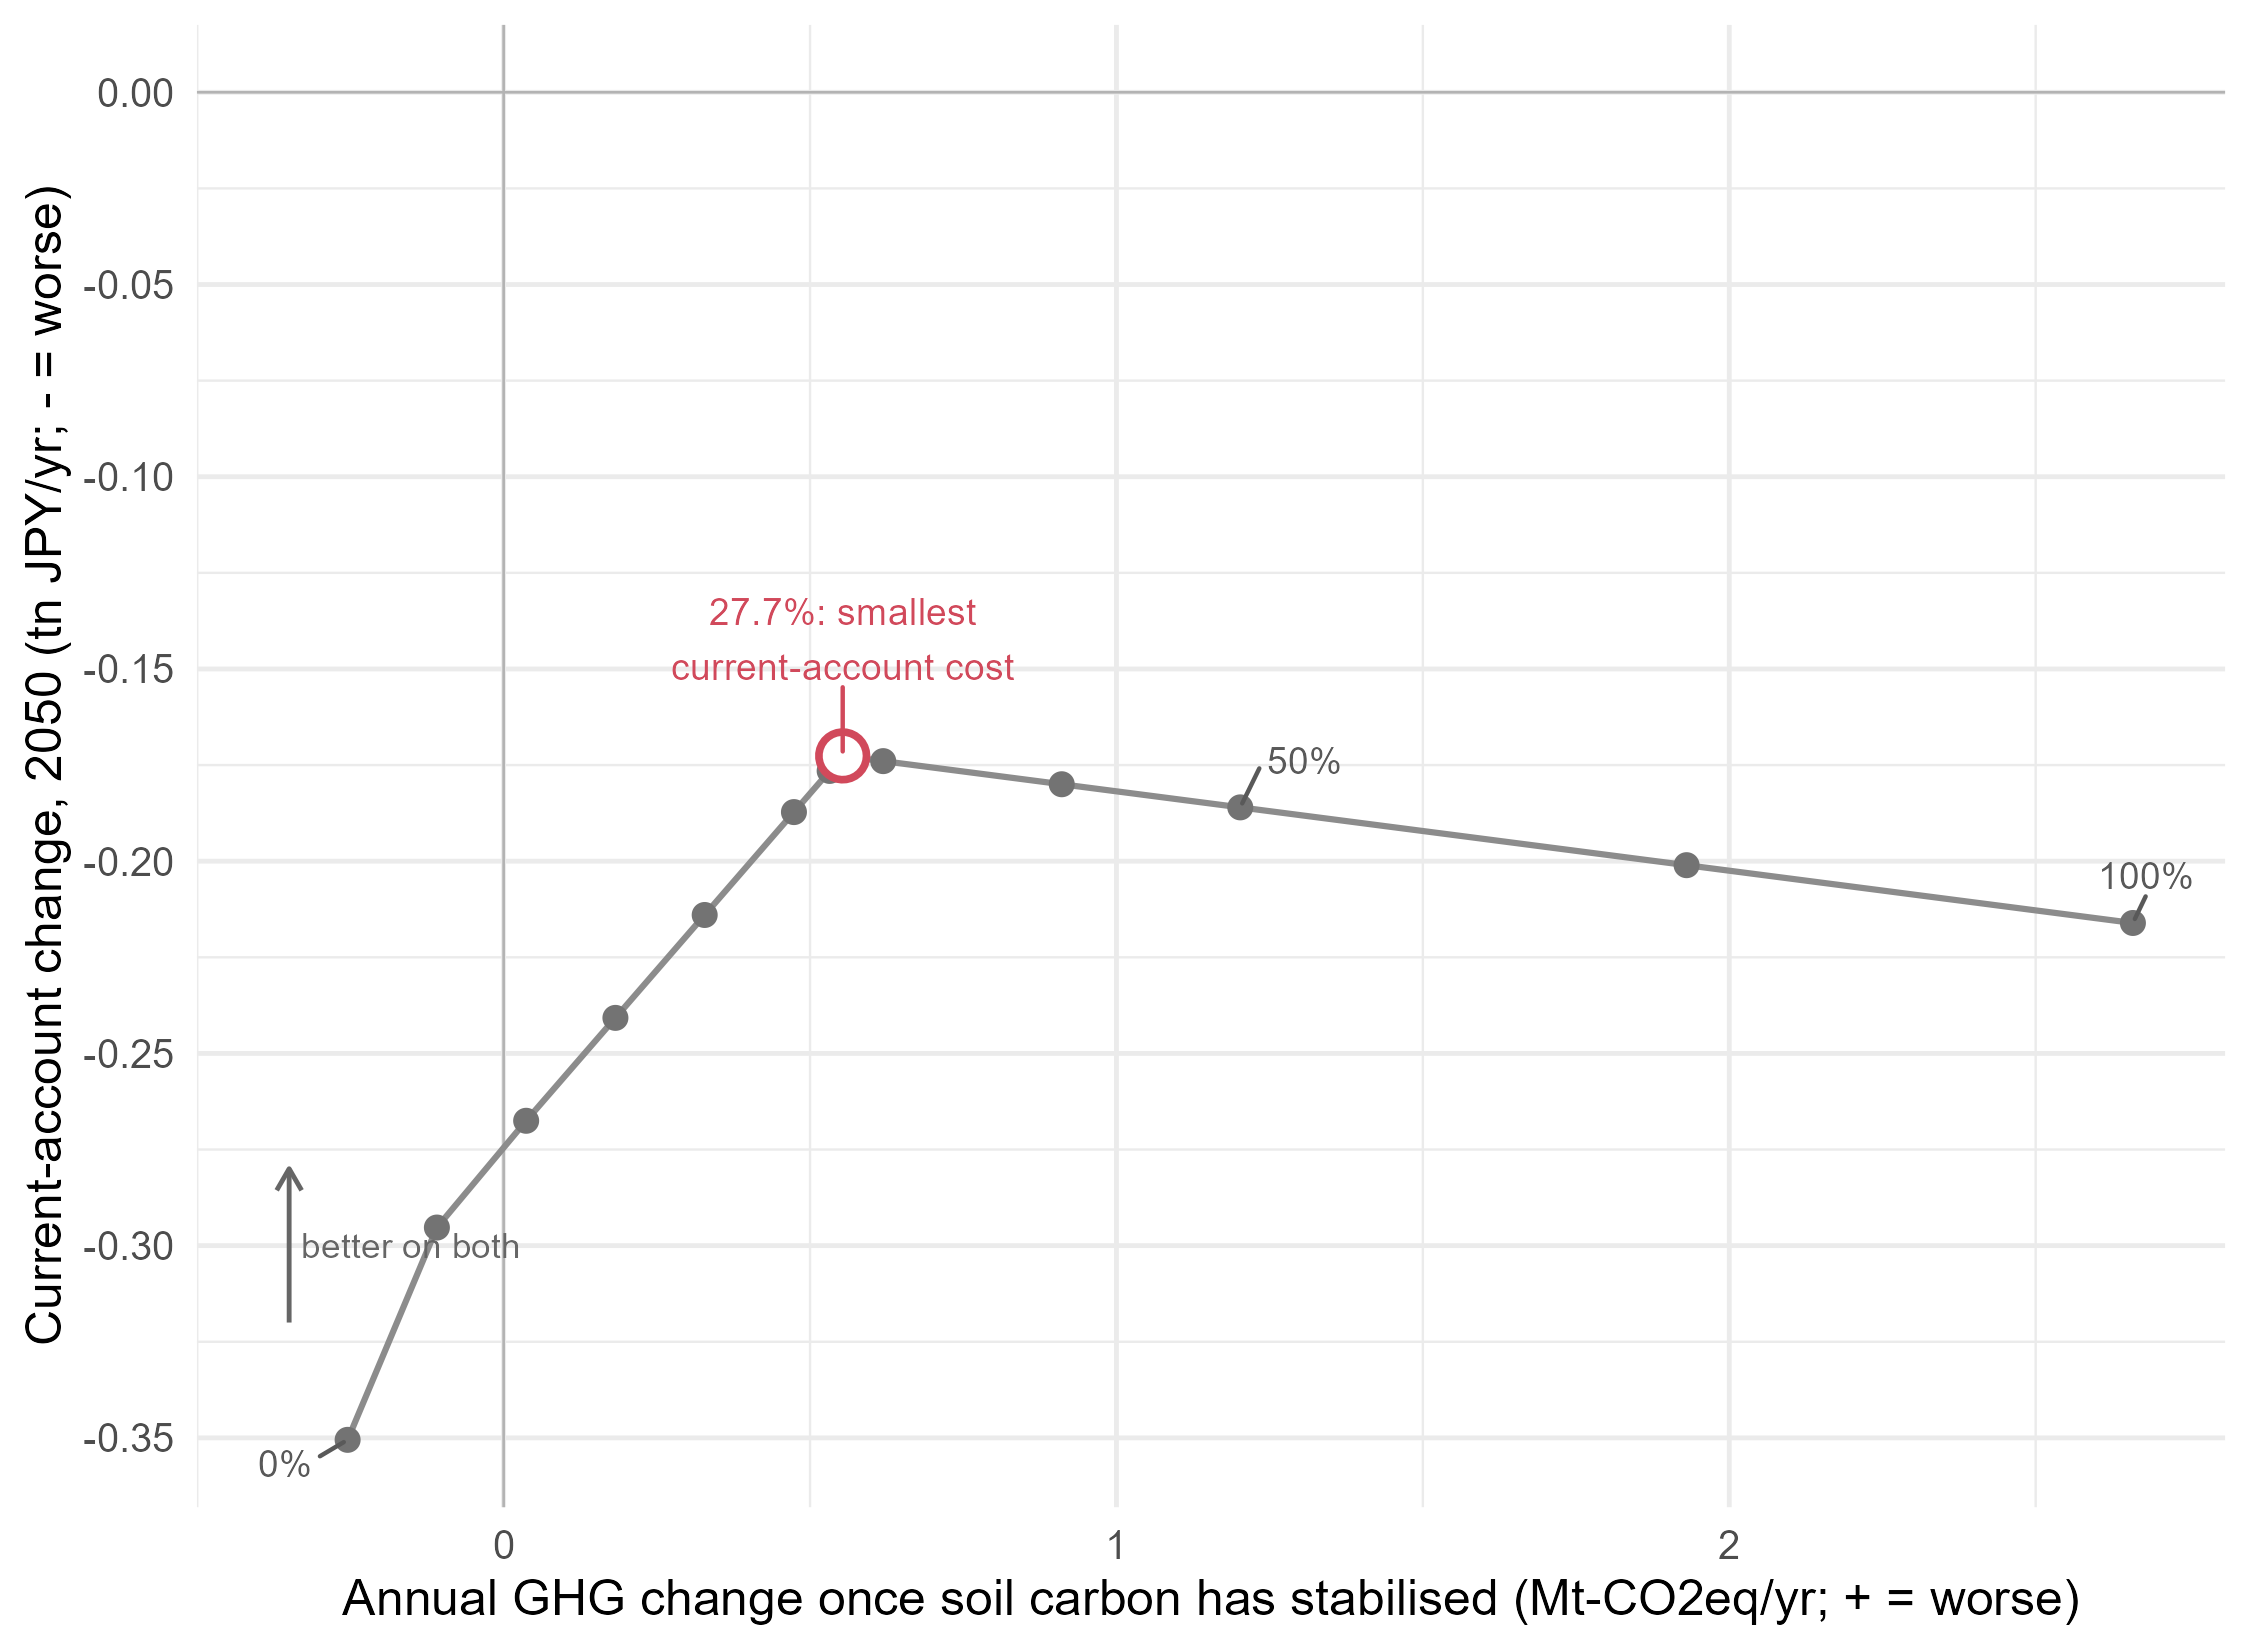
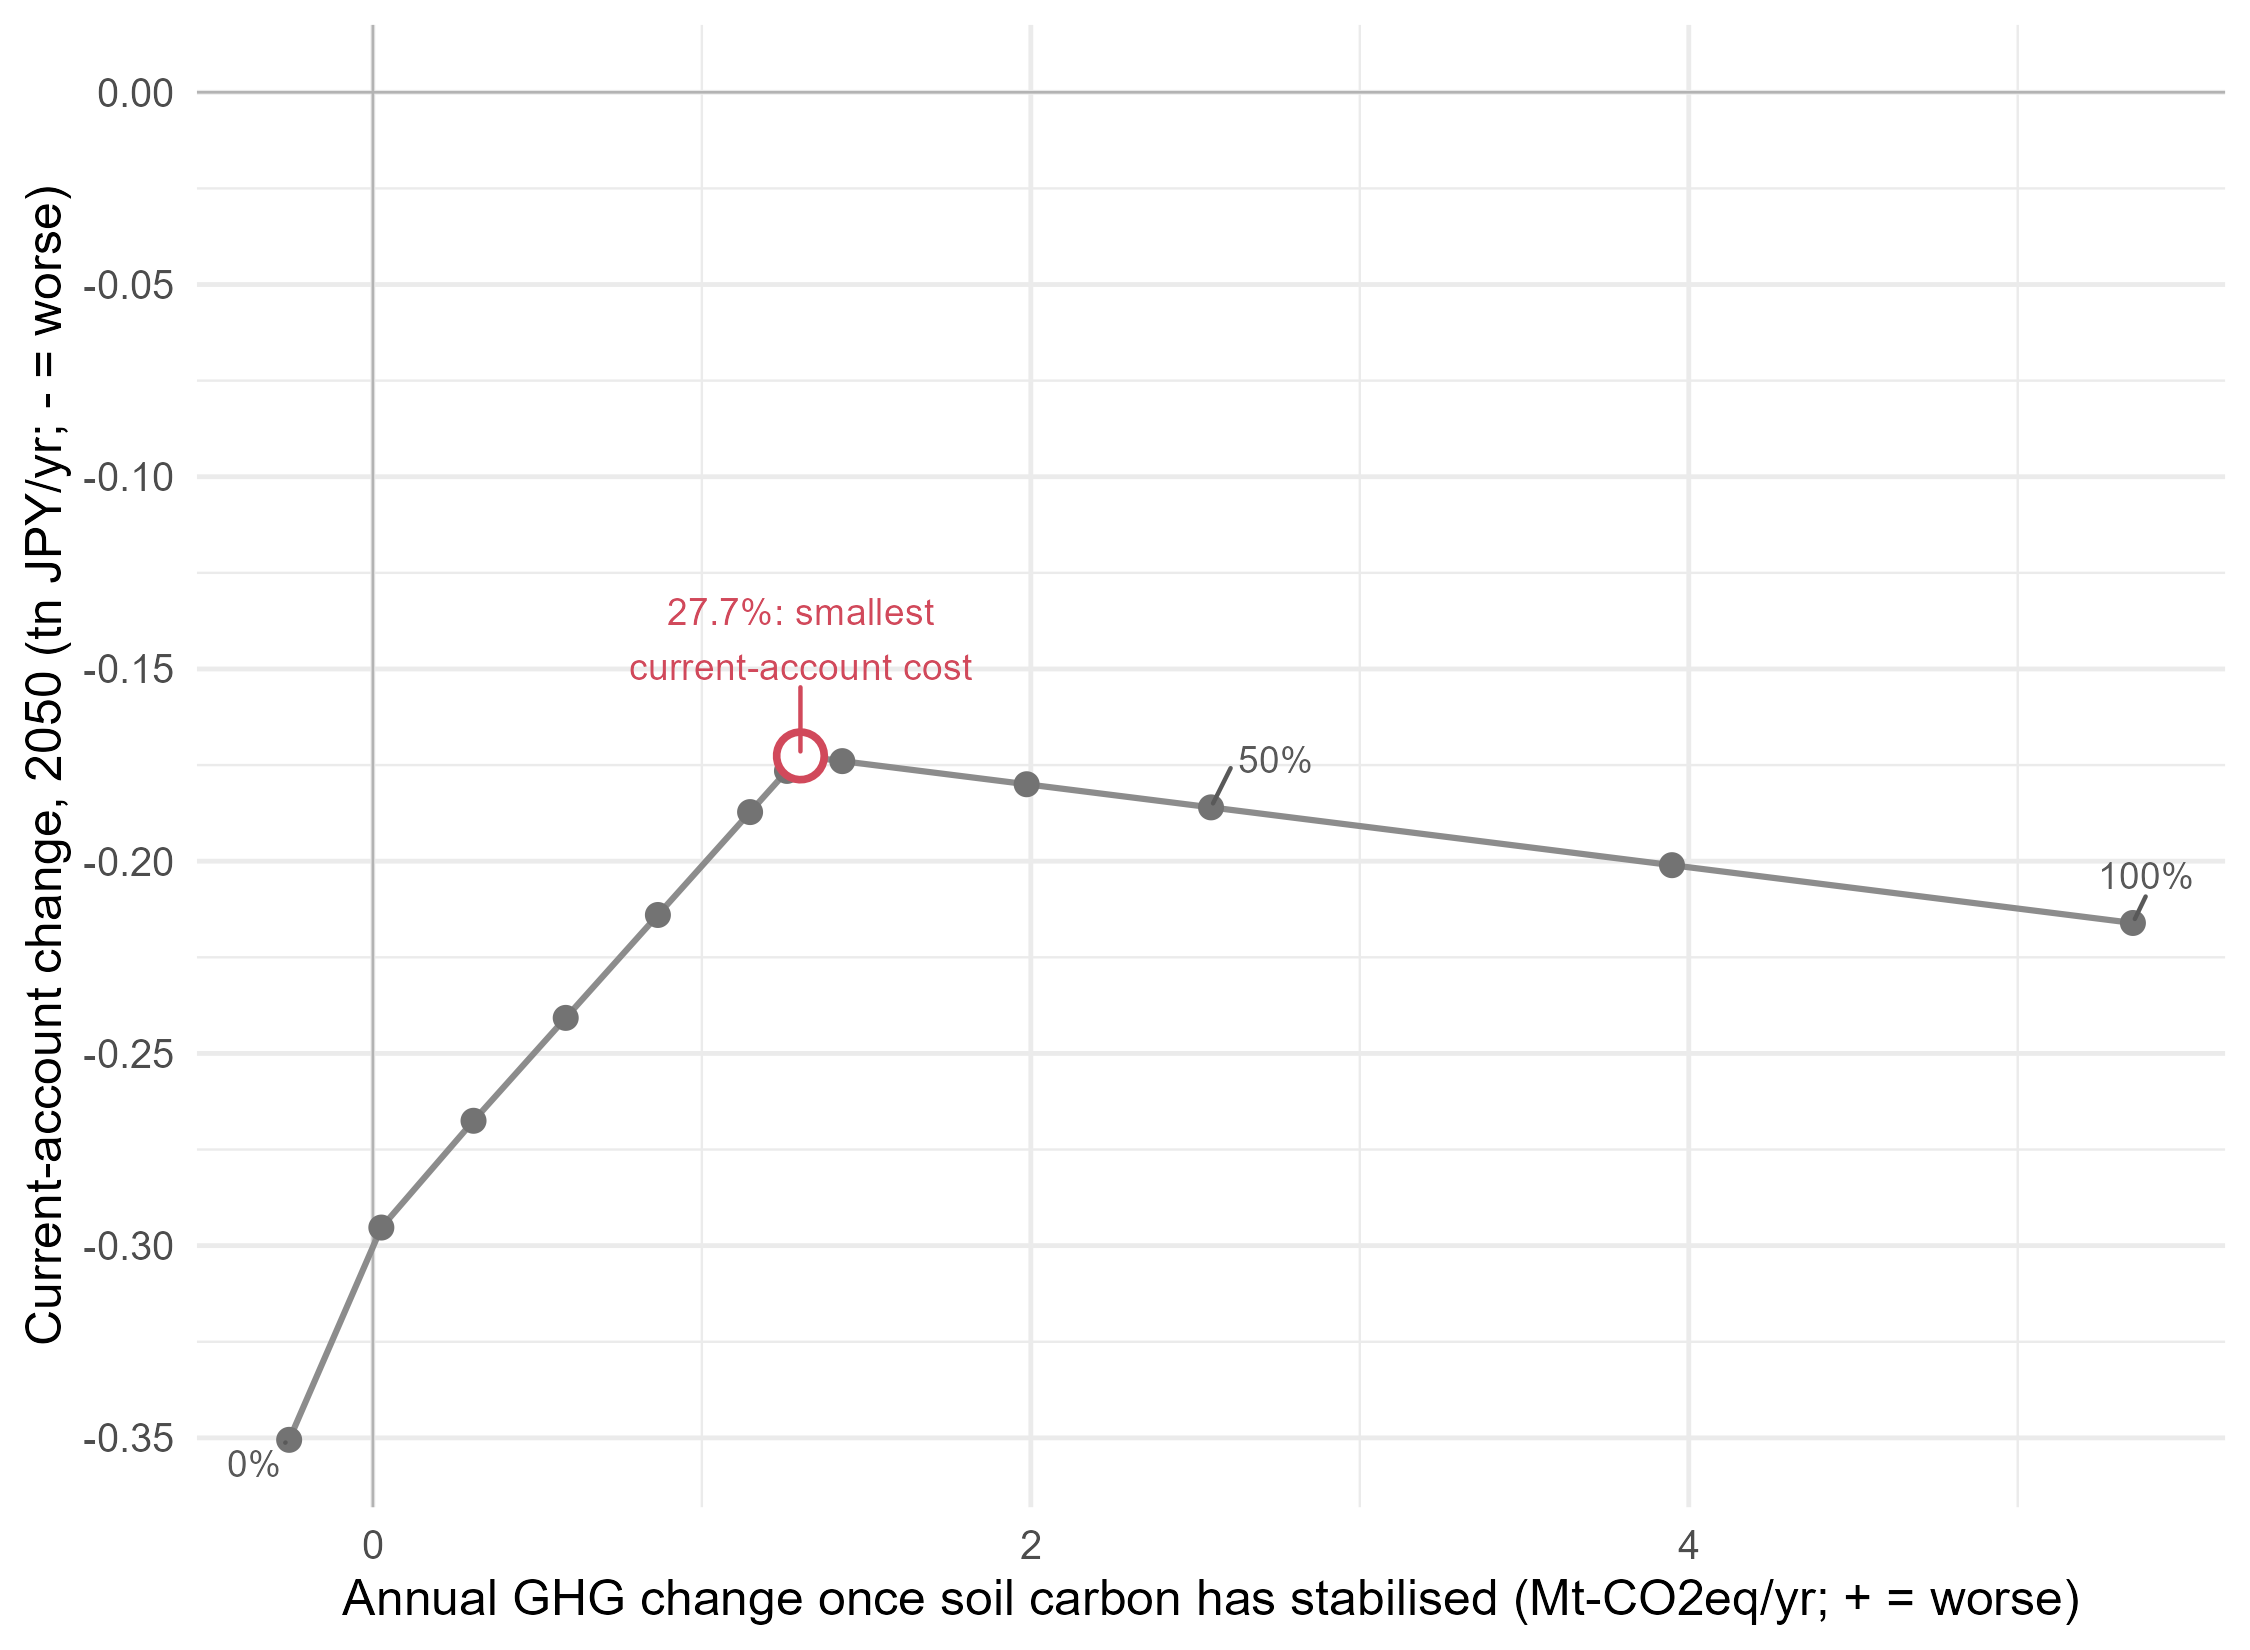
Fix paddy CH4 scaling: divide by paddy area, not total cropland (v1.0.1)
The national paddy CH4 baseline was scaled by the cropland-wide ratio
sA_rice*LAo/LAbar instead of the paddy-only ratio LAo/LAbar (a_rice in
Part B), inflating the denominator. Corrected in Part A's dCH4, the two
CH4 terms in soc_extend(), EMperm_ph, and Part B's dCH4, plus the
dependent Figure 2 labels/breaks and a stale Figure 3 annotation.

Economic results (CAB, fiscal balance, NFA) are unchanged; only GHG
results are affected. MODEL_NOTES.md, README.md, and CHANGELOG.md
updated to match the corrected run (see CHANGELOG for before/after
headline values).

diff --git a/MODEL_NOTES.md b/MODEL_NOTES.md
@@ -88,23 +88,24 @@ four crops together and closer for rice (N04).
 S2 relative to BAU (Mt CO₂-eq per year):
 
 ```
-2030          −0.326
-2050          −1.445   (synthetic N2O −0.310, green-manure N2O +0.055,
-                        paddy CH4 +1.514, soil carbon −2.705)
-2069.1         0       annual balance rises above BAU
-2118           0       cumulative balance rises above BAU
-equilibrium   +1.260   once soil carbon accumulation has ceased
+2030          −0.238
+2050          −0.046   (synthetic N2O −0.310, green-manure N2O +0.055,
+                        paddy CH4 +2.913, soil carbon −2.705)
+2050.4         0       annual balance rises above BAU
+2063           0       cumulative balance rises above BAU
+equilibrium   +2.659   once soil carbon accumulation has ceased
 ```
 
 With green manure applied on 29/45 of converted land (`phi = 0.6444`): 2050
-−1.042, annual crossing 2072.7, cumulative crossing 2134, equilibrium +0.702.
+−0.140, annual crossing 2052.1, cumulative crossing 2068, equilibrium +1.603.
 
 S1 on its own stays below BAU in every year: with `a = 0`,
 `GHGnet = −1.033459 · pi_ < 0`.
 
-Continuing the organic ramp after 2050 at its 2030–2050 slope delays the
-annual crossing: to 2072.6 for a terminal share of 0.354 and to 2079.2 for
-0.50 (Section 4-ter).
+Continuing the organic ramp after 2050 leaves the annual crossing almost
+unchanged, at 2050.8 for a terminal share of either 0.354 or 0.50 against
+2050.4 at 0.25 (Section 4-ter). The crossing year therefore does not depend
+on when conversion stops.
 
 ## N08 — Sensitivity design
 
@@ -142,13 +143,13 @@ falls below the break-even:
 
 ```
 green-manure N    uplift    break-even   margin
-1.0417 (min)      0.7575    0.149845     5.06x
-1.1927 (adopted)  0.8674    0.145822     5.95x
-1.6562 (max)      1.2045    0.133477     9.02x
+1.0417 (min)      0.7575    0.077887     9.73x
+1.1927 (adopted)  0.8674    0.075796     11.44x
+1.6562 (max)      1.2045    0.069379     17.36x
 ```
 
 The adopted green-manure N₂O emission factor is the least favourable end of
-its band: the two alternatives raise the margin to between 6.76x and 14.87x
+its band: the two alternatives raise the margin to between 13.00x and 28.60x
 (Section 7.5).
 
 The paddy decomposition rate `k_paddy` (N20) moves the year of the annual
@@ -221,13 +222,15 @@ green manure is applied to paddy. Section 7.4-bis maps each countermeasure
 into an effective uplift `(1 + u)(1 − m) − 1`:
 
 ```
-reduction  equilibrium dGHG   annual crossing
-10%        +0.934
-30%        +0.282             2107.7
-34%        +0.151             2124.2
+reduction  uplift      equilibrium dGHG   annual crossing
+10%        0.680631    +2.031476          —
+30%        0.307157    +0.777079          2081.3
+34%        0.232462    +0.526199          2091.4
+37%        0.176441    +0.338040          —
+53.8%      −0.137276   −0.715654          —
 ```
 
-A reduction of 38.64% is needed to make the permanent change negative, above
+A reduction of 42.39% is needed to make the permanent change negative, above
 the largest single measure (34%). The scheme covered 84,795 ha in FY2025,
 about 2% of Japan's cropland, so applying a countermeasure to the whole
 converted area is an upper bound on what the requirement can achieve.
@@ -338,7 +341,7 @@ policy:
 ```
                       2050          2100
 scheme convention     −0.734        −0.734
-this model            −1.445        +0.882
+this model            −0.046        +2.281
 ```
 
 The first-period coefficient, 0.93, gives −0.657 in 2050 and is printed for

diff --git a/README.md b/README.md
@@ -32,14 +32,14 @@ and emissions do not feed back into production or the current account.
 - When every crop is converted in equal proportion, conversion worsens the
   2050 current account by 0.16 trillion JPY per year and the fiscal balance by
   0.11 trillion JPY per year.
-- In 2050, greenhouse gas emissions under S2 are 1.45 Mt CO₂-eq per year below
-  BAU. From 2069 onwards the annual balance lies above BAU, and once soil
-  carbon accumulation has ceased the permanent increase is 1.26 Mt CO₂-eq per
+- In 2050, greenhouse gas emissions under S2 are almost unchanged from BAU
+  (−0.05 Mt CO₂-eq per year). From 2051 onwards the annual balance lies above BAU, and once soil
+  carbon accumulation has ceased the permanent increase is 2.66 Mt CO₂-eq per
   year.
 - The direct payment scheme for environmentally friendly agriculture credits
   organic farming with a constant 1.04 tCO₂/ha/yr. Under that convention the
   same policy records −0.73 Mt CO₂-eq per year in both 2050 and 2100; this
-  model records +0.88 Mt CO₂-eq per year in 2100.
+  model records +2.28 Mt CO₂-eq per year in 2100.
 - Relative to BAU, the 2050 current-account effect ranges from 0.17 to
   0.88 trillion JPY per year across five allocations of the same 25% area
   target (a 5.1-fold difference). Relative to S1, converting crops with low

diff --git a/CHANGELOG.md b/CHANGELOG.md
@@ -1,0 +1,30 @@
+# Changelog
+
+## v1.0.1
+
+Fixed the paddy methane equation: the national paddy CH4 baseline
+(`ghg_ch4_pad0`) was scaled by the cropland-wide ratio `sA_rice * LAo / LAbar`
+instead of the paddy-only ratio `LAo / LAbar` (Part B: `a_rice`). This
+affected five sites in `sfc_midori.R` — Part A's `dCH4`, the two CH4 terms
+inside `soc_extend()`, `EMperm_ph` in Section 4, and Part B's `dCH4` — plus
+the dependent Figure 2 breaks/labels and the removal of the stale "better on
+both" annotation on Figure 3. The economic side (CAB, fiscal balance, NFA) is
+unchanged; only GHG results are affected.
+
+Headline GHG results, before -> after:
+
+| Metric | v1.0.0 | v1.0.1 |
+|---|---|---|
+| 2050 dGHG (Mt CO2eq/yr) | -1.45 | -0.05 |
+| Annual crossing year | 2069 | 2051 |
+| Permanent (equilibrium) dGHG | +1.26 | +2.66 |
+| Break-even ch4_uplift (adopted nu_O) | 0.146 | 0.076 |
+| Reduction required to reverse sign | 38.6% | 42.4% |
+
+`MODEL_NOTES.md` and `README.md` were updated throughout to match the
+corrected run (headline values, sensitivity tables in Sections 7.4/7.4-bis,
+and the surrounding explanatory text).
+
+## v1.0.0
+
+Initial release.
